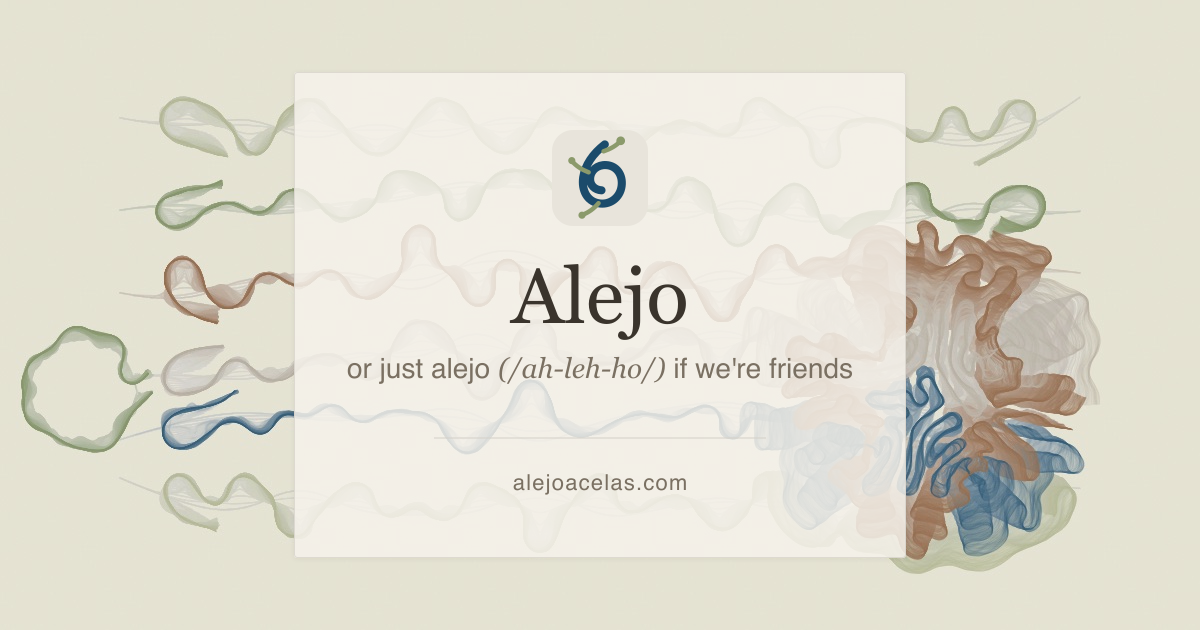
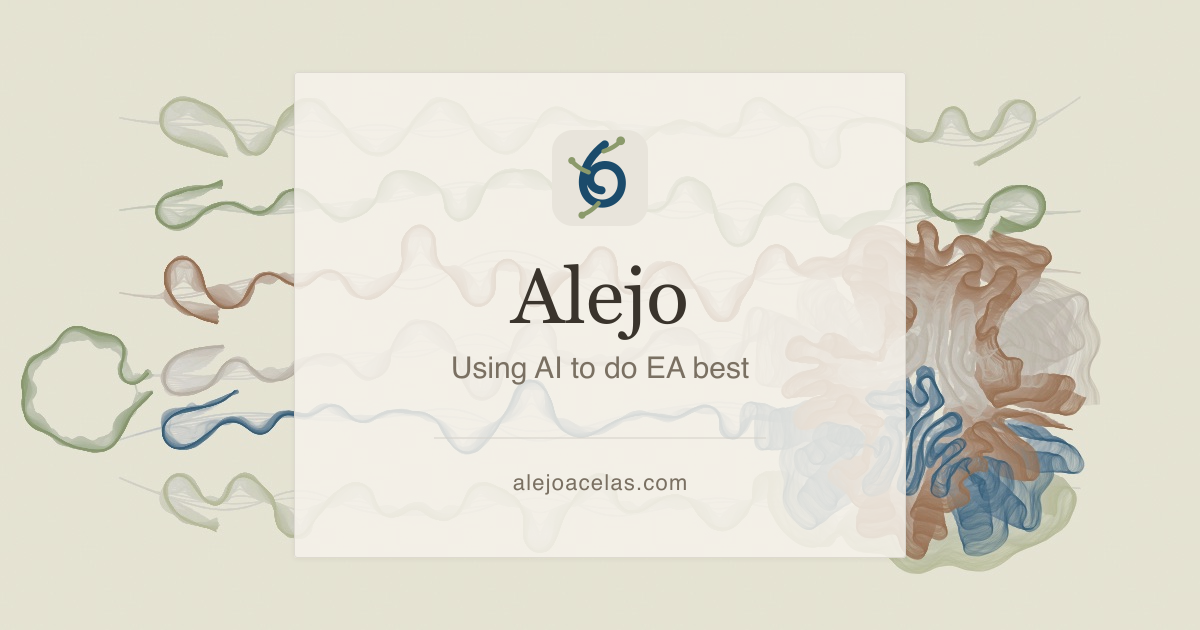
Update social preview tagline

Changed region(s): [[0.2775, 0.573, 0.7092, 0.6032]]

diff --git a/index.html b/index.html
@@ -18,8 +18,8 @@
   <meta property="og:url" content="https://alejoacelas.com/" />
   <meta property="og:title" content="Alejo" />
   <meta property="og:description" content="Trying hard to do what's right. Figuring out how we can all best use AI for ambitious altruistic projects" />
-  <meta property="og:image" content="https://alejoacelas.com/og-image.png?v=20260512-5" />
-  <meta property="og:image:secure_url" content="https://alejoacelas.com/og-image.png?v=20260512-5" />
+  <meta property="og:image" content="https://alejoacelas.com/og-image.png?v=20260512-ai-ea" />
+  <meta property="og:image:secure_url" content="https://alejoacelas.com/og-image.png?v=20260512-ai-ea" />
   <meta property="og:image:type" content="image/png" />
   <meta property="og:image:width" content="1200" />
   <meta property="og:image:height" content="630" />
@@ -31,7 +31,7 @@
   <meta name="twitter:card" content="summary_large_image" />
   <meta name="twitter:title" content="Alejo" />
   <meta name="twitter:description" content="Trying hard to do what's right. Figuring out how we can all best use AI for ambitious altruistic projects" />
-  <meta name="twitter:image" content="https://alejoacelas.com/og-image.png?v=20260512-5" />
+  <meta name="twitter:image" content="https://alejoacelas.com/og-image.png?v=20260512-ai-ea" />
   <meta name="twitter:image:alt" content="Alejo over the site's differential-growth background" />
 
   <!-- Schema.org Person -->
